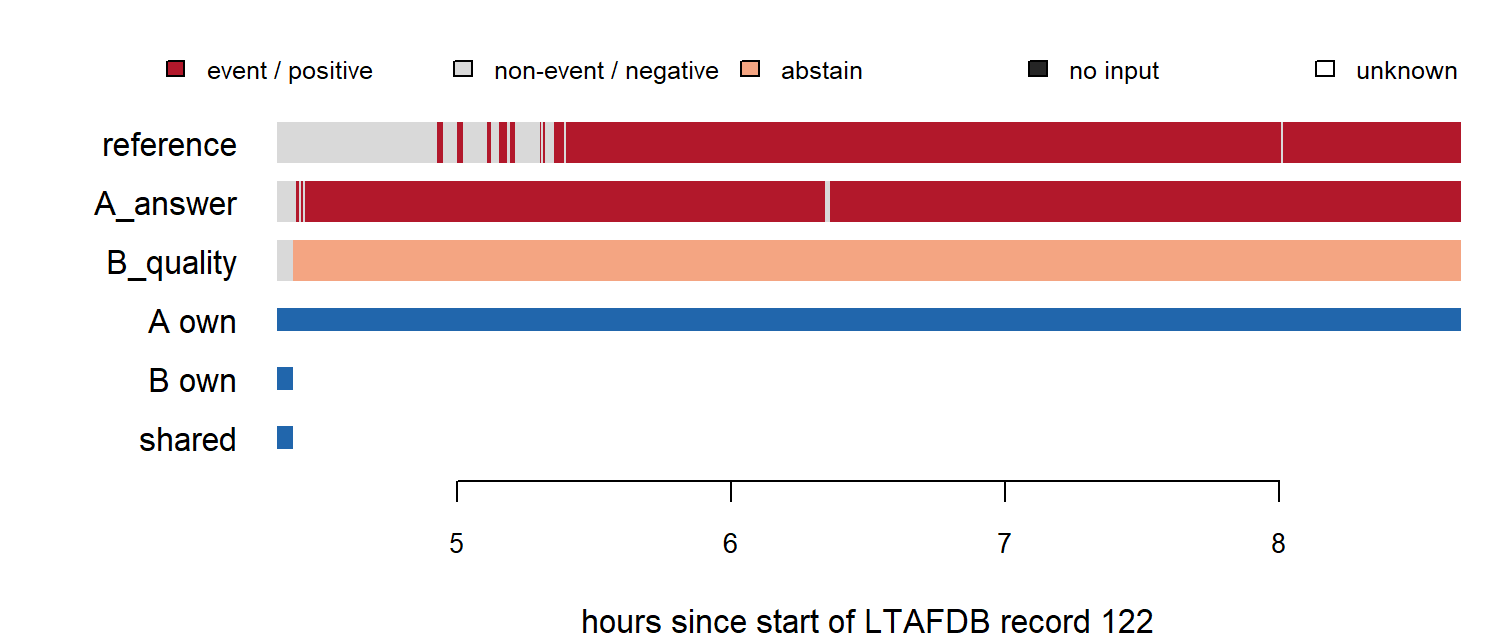
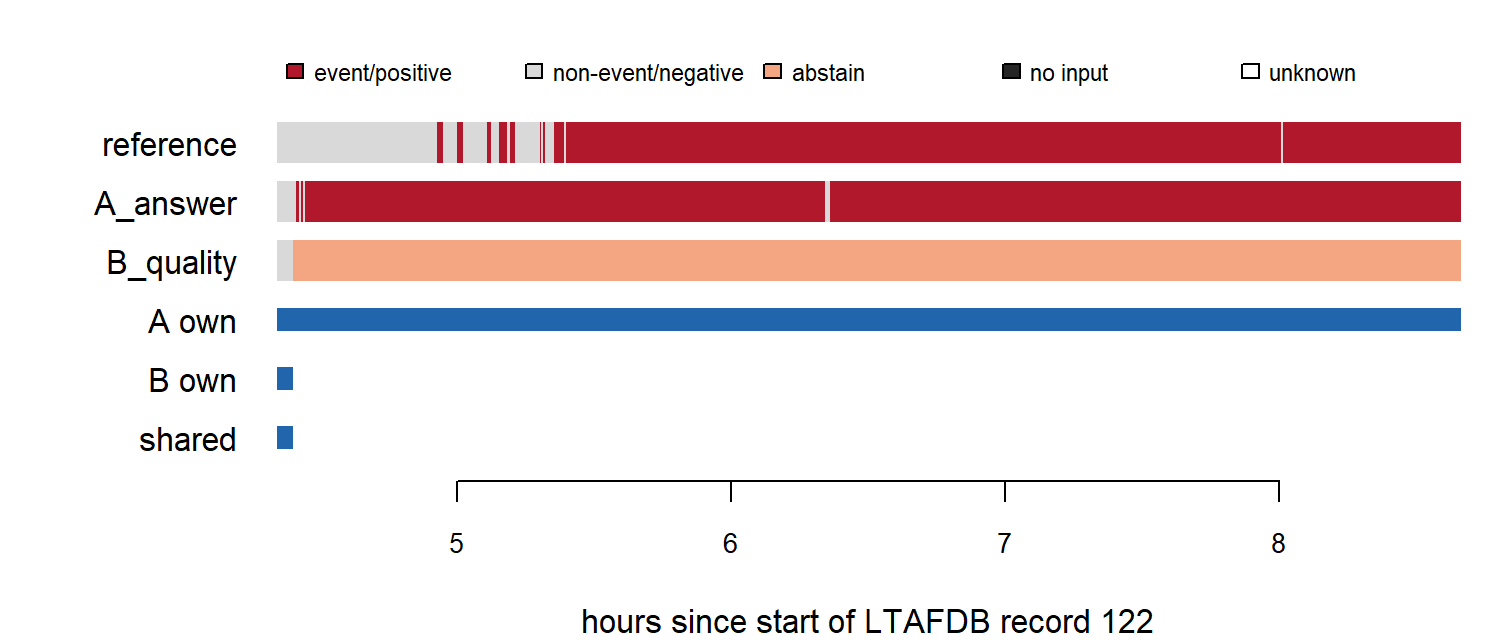
Fix Rd intervals for LaTeX, rjtools naming and title checks, execute R toolkits in CI

Changed region(s): [[0.092, 0.0938, 0.5827, 0.125], [0.828, 0.0938, 0.9813, 0.125], [0.644, 0.0938, 0.7667, 0.125]]

diff --git a/paper/timeledger_draft.md b/paper/timeledger_draft.md
@@ -1,4 +1,4 @@
-# timeledger: Auditable Time Accounting for Evaluating Continuous Event Detectors in R
+# Auditable Time Accounting for Evaluating Continuous Event Detectors: The R Package 'timeledger'
 
 Abstract.
 Detectors that run continuously on long recordings, such as monitors for atrial fibrillation in 24-hour electrocardiograms, rarely answer for every second. They lose their input, decline to answer when the signal is poor, and split one true event into several alarms. Two detectors evaluated on the same recordings can then report sensitivities computed over different time, and the difference is usually invisible in the published number. The R package timeledger reduces the reference annotations, the input availability and every detector's responses to one table of disjoint half-open intervals per record. Unknown reference, missing input, abstention and a negative answer are separate states, and time without a prediction is never silently counted as negative. Every reported quantity is a sum over that table and carries its numerator, denominator and excluded time, so any number can be traced to the seconds behind it. The package adds an exact one-to-one episode matching rule, paired comparisons on each detector's own, shared and full time, a subject-level bootstrap, and a base R reader for WFDB annotation files whose atrial fibrillation statistics agree with the WFDB program epicmp on all 109 records of two PhysioNet databases. On the Long Term AF Database, a quality-gated policy of a published detector matched the ungated policy on answered time but captured less atrial fibrillation over the full period.
@@ -386,7 +386,7 @@ event-concentrated outages, with bounds widening to
 34% to
 52%.
 
-# A second application: sleep apnea
+# Application to sleep apnea
 
 The engine has no AF-specific code. The Apnea-ECG Database [@penzel2000]
 contains 70 overnight records with expert annotations of apnea for
